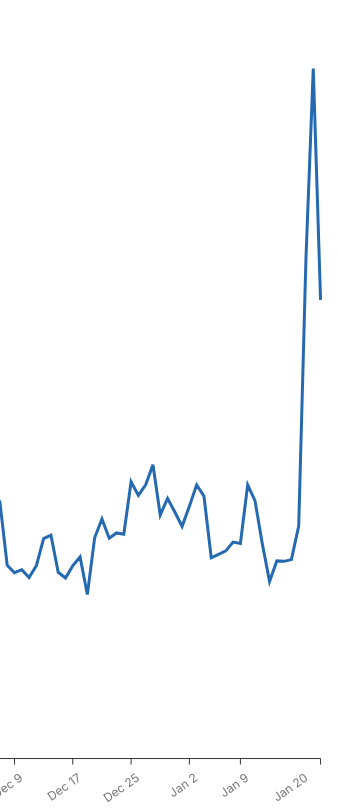
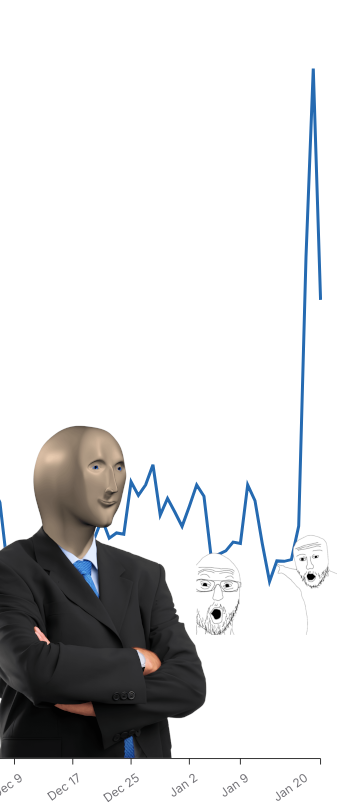
wiki dolp

Changed region(s): [[0.0, 0.5234, 0.7122, 0.9544], [0.8605, 0.6466, 0.9792, 0.7389]]

diff --git a/wiki-rtd/docs/wip/January-2026.md b/wiki-rtd/docs/wip/January-2026.md
@@ -37,7 +37,7 @@ The internal discussions were intense within the team, and yes, our lead archite
 
 ---
 
-<img src="../statsdank.png" width="100"> 
+<img src="../statsdank.png" width="200"> 
 
 We also did see a *bit* of a spike in downloads. 
 
